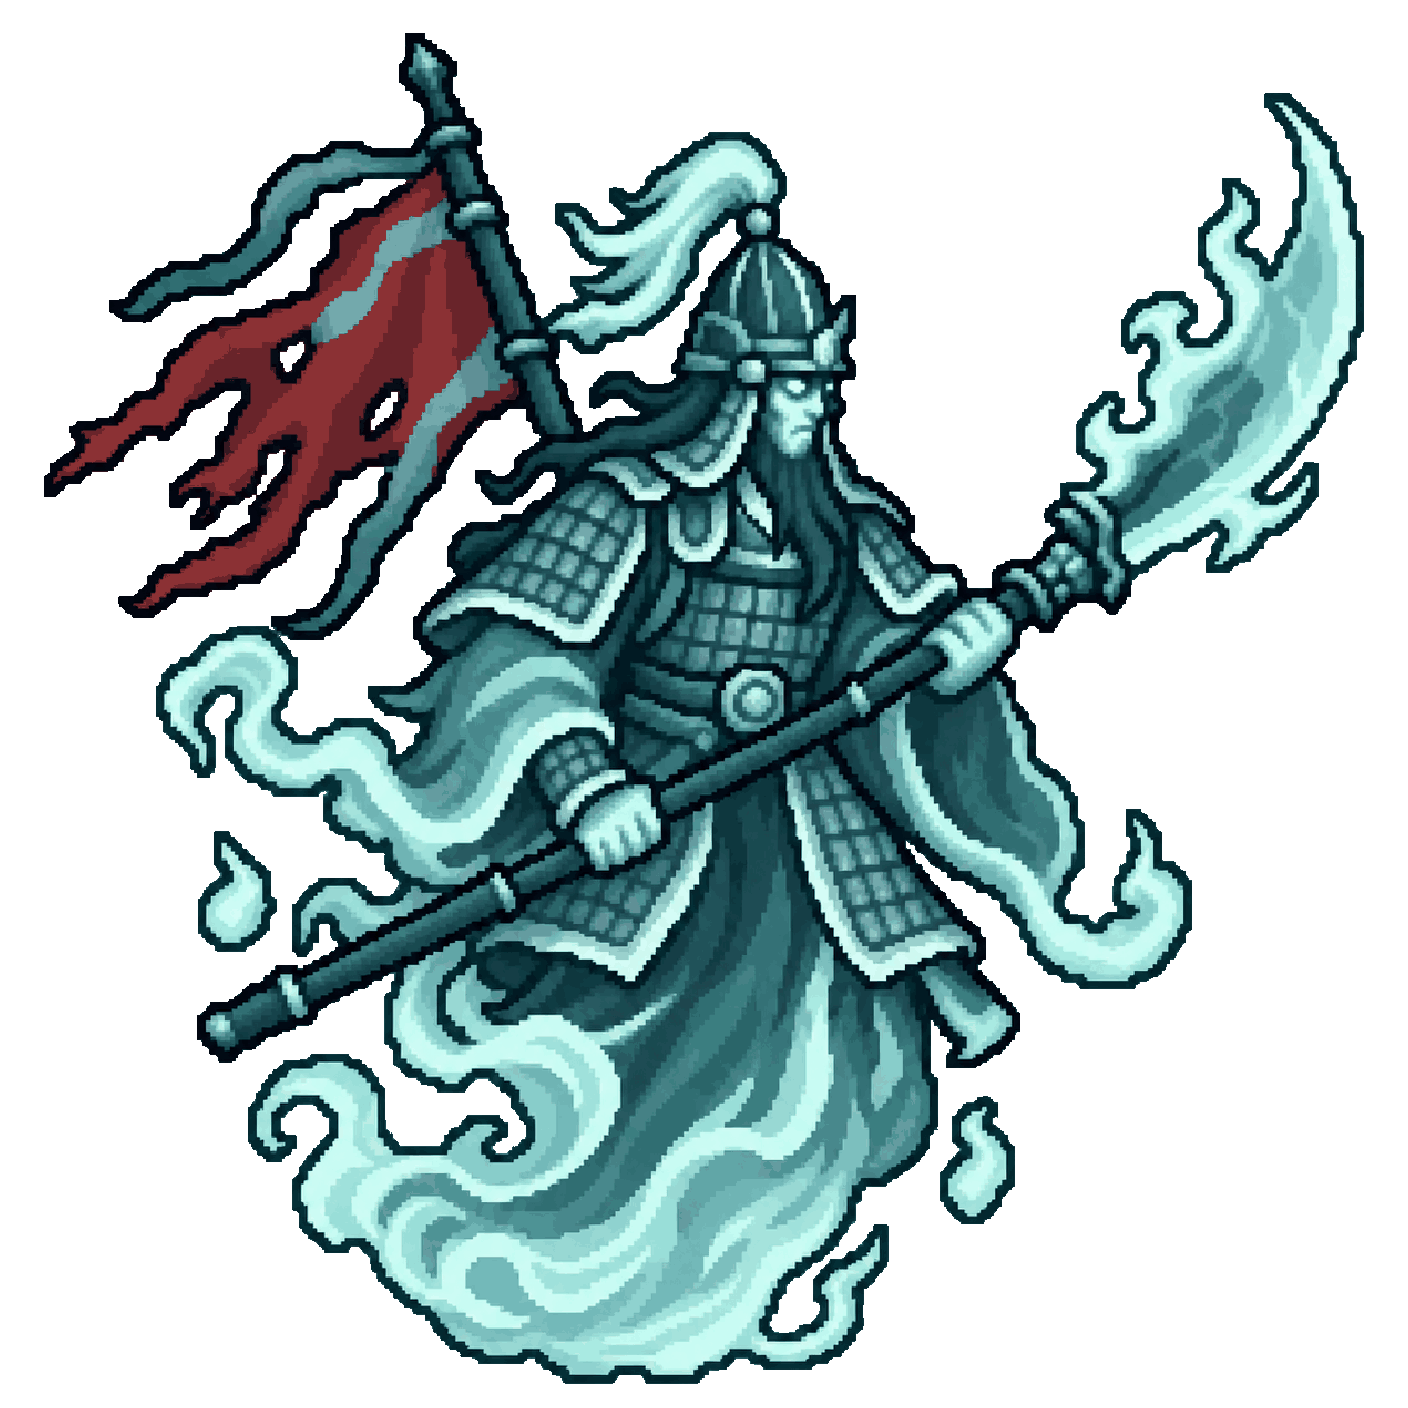
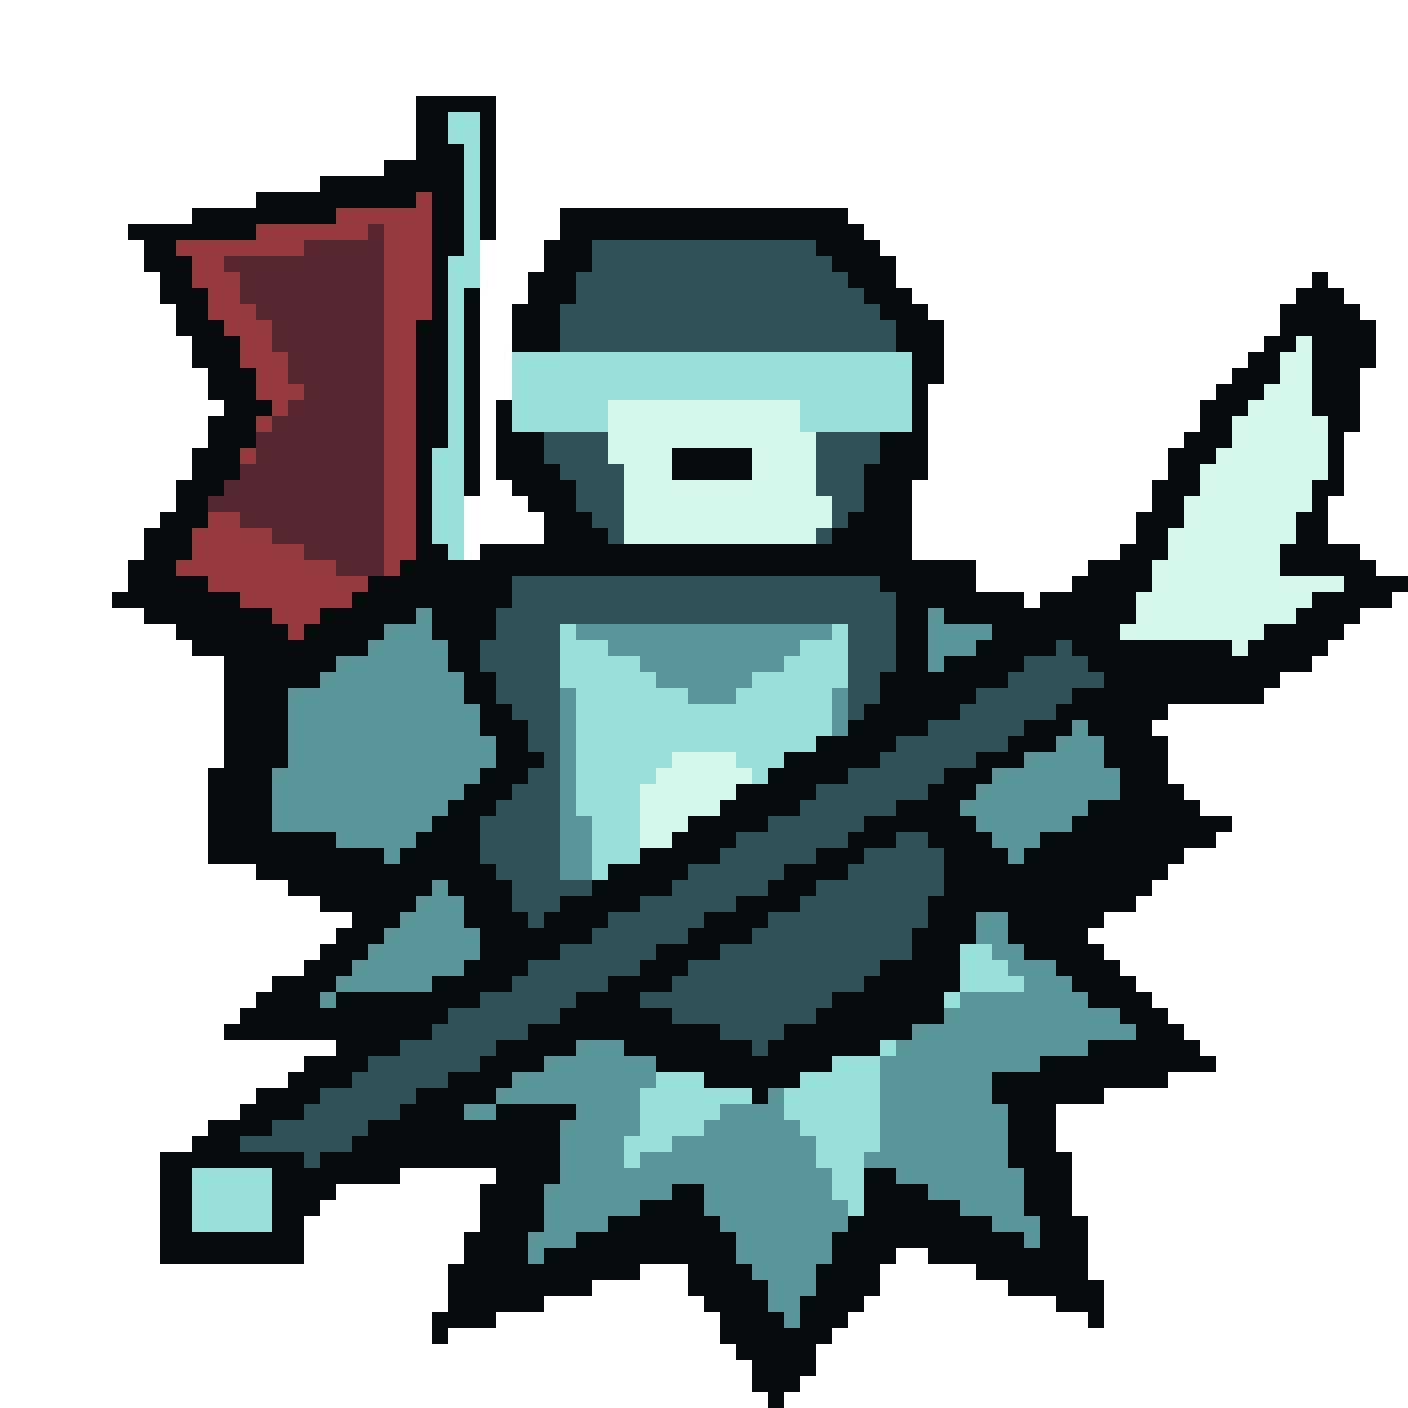
feat(art): rebuild night two assets on gameplay grids

diff --git a/asset/monsters/build_night2_grid_assets.py b/asset/monsters/build_night2_grid_assets.py
@@ -1,0 +1,310 @@
+from __future__ import annotations
+
+from collections import Counter
+from pathlib import Path
+
+from PIL import Image, ImageDraw, ImageFont
+
+
+ROOT = Path(__file__).resolve().parents[2]
+MONSTERS = ROOT / "asset" / "monsters"
+EFFECTS = ROOT / "asset" / "effect"
+
+INK = (8, 11, 13, 255)
+ASH_DARK = (34, 37, 40, 255)
+ASH = (69, 72, 73, 255)
+ASH_HI = (119, 119, 113, 255)
+EMBER = (224, 74, 30, 255)
+EMBER_HI = (255, 165, 55, 255)
+HOUND_DARK = (30, 25, 24, 255)
+HOUND = (62, 49, 43, 255)
+HOUND_HI = (96, 73, 57, 255)
+FANG = (218, 205, 169, 255)
+RED_DARK = (91, 27, 23, 255)
+RED = (162, 52, 39, 255)
+RED_HI = (211, 79, 51, 255)
+BARREL_DARK = (72, 42, 20, 255)
+BARREL = (123, 75, 33, 255)
+BARREL_HI = (169, 108, 48, 255)
+IRON = (42, 46, 49, 255)
+IRON_HI = (83, 85, 82, 255)
+RUST_DARK = (91, 46, 29, 255)
+RUST = (151, 77, 39, 255)
+RUST_HI = (201, 119, 60, 255)
+BLUE_DARK = (22, 37, 52, 255)
+BLUE = (43, 67, 83, 255)
+GHOST_DARK = (15, 53, 60, 220)
+GHOST = (55, 126, 131, 210)
+GHOST_HI = (137, 218, 211, 220)
+GHOST_PALE = (209, 247, 232, 235)
+FLAG_DARK = (73, 22, 31, 235)
+FLAG = (142, 42, 49, 235)
+
+
+def blank(size: int) -> tuple[Image.Image, ImageDraw.ImageDraw]:
+    image = Image.new("RGBA", (size, size))
+    return image, ImageDraw.Draw(image)
+
+
+def ash_wraith() -> Image.Image:
+    image, draw = blank(32)
+    # Four broad ash steps form the disappearing lower body.
+    draw.polygon(((9, 17), (23, 17), (25, 21), (22, 23), (25, 25), (21, 26),
+                  (22, 29), (18, 28), (16, 31), (13, 28), (8, 29), (11, 25),
+                  (6, 24), (9, 21)), fill=INK)
+    draw.polygon(((11, 18), (21, 18), (23, 21), (19, 23), (23, 25), (18, 25),
+                  (20, 28), (16, 27), (15, 29), (13, 27), (10, 27), (12, 24),
+                  (9, 23), (11, 21)), fill=ASH)
+    draw.polygon(((13, 20), (20, 20), (18, 22), (21, 24), (16, 24), (18, 27),
+                  (14, 25), (13, 27), (12, 24)), fill=ASH_HI)
+    # Big torn sleeves, not fingers or cloth folds.
+    draw.polygon(((10, 13), (6, 15), (4, 20), (6, 23), (10, 20), (12, 17)), fill=INK)
+    draw.polygon(((9, 15), (7, 16), (6, 20), (7, 21), (10, 19), (11, 17)), fill=ASH)
+    draw.polygon(((22, 13), (26, 15), (29, 19), (27, 22), (23, 20), (20, 17)), fill=INK)
+    draw.polygon(((23, 15), (25, 16), (27, 19), (26, 20), (23, 18), (21, 17)), fill=ASH)
+    # Hooded head and two explicit 2x2 ember eyes.
+    draw.ellipse((8, 2, 24, 18), fill=INK)
+    draw.polygon(((11, 5), (20, 4), (23, 8), (22, 15), (18, 17), (12, 15), (9, 10)), fill=ASH_DARK)
+    draw.polygon(((12, 6), (20, 6), (21, 9), (20, 13), (12, 13), (10, 9)), fill=ASH)
+    draw.rectangle((12, 9, 13, 10), fill=EMBER)
+    draw.rectangle((18, 9, 19, 10), fill=EMBER)
+    draw.point((13, 9), fill=EMBER_HI)
+    draw.point((19, 9), fill=EMBER_HI)
+    draw.rectangle((14, 13, 18, 14), fill=ASH_DARK)
+    # Detached ash clumps remain deliberately 2x2 or larger.
+    draw.rectangle((4, 25, 5, 26), fill=ASH_HI)
+    draw.rectangle((25, 27, 27, 29), fill=ASH)
+    draw.rectangle((6, 29, 8, 30), fill=ASH_DARK)
+    return image
+
+
+def cursed_hound() -> Image.Image:
+    image, draw = blank(32)
+    # Raised tail and long quadruped torso establish the silhouette first.
+    draw.polygon(((8, 12), (5, 10), (4, 6), (2, 5), (1, 9), (3, 14), (7, 17)), fill=INK)
+    draw.polygon(((7, 13), (5, 11), (5, 8), (3, 7), (3, 10), (5, 14)), fill=HOUND_HI)
+    draw.ellipse((5, 9, 23, 22), fill=INK)
+    draw.polygon(((7, 11), (18, 10), (23, 14), (21, 19), (9, 20), (6, 17)), fill=HOUND)
+    draw.polygon(((9, 12), (18, 12), (20, 14), (16, 16), (8, 16)), fill=HOUND_HI)
+    # Forward canine head, pointed ears, eye and fang.
+    draw.polygon(((19, 11), (21, 6), (23, 10), (27, 9), (30, 13), (31, 17),
+                  (28, 20), (22, 19), (19, 16)), fill=INK)
+    draw.polygon(((21, 12), (22, 9), (24, 12), (27, 11), (29, 14), (29, 17),
+                  (27, 18), (22, 17)), fill=HOUND)
+    draw.rectangle((25, 13, 26, 14), fill=EMBER_HI)
+    draw.rectangle((28, 17, 30, 18), fill=HOUND_DARK)
+    draw.rectangle((27, 18, 28, 20), fill=FANG)
+    # Four separated weight-bearing legs.
+    legs = (((7, 18), (11, 18), (10, 27), (6, 27)),
+            ((13, 18), (16, 18), (17, 27), (13, 27)),
+            ((20, 17), (23, 17), (24, 27), (20, 27)),
+            ((25, 18), (28, 18), (30, 27), (25, 27)))
+    for index, points in enumerate(legs):
+        draw.polygon(points, fill=INK)
+        draw.rectangle((points[0][0] + 1, 20, points[1][0] - 1, 25), fill=HOUND if index % 2 else HOUND_DARK)
+        draw.rectangle((points[3][0], 27, points[2][0] + 1, 28), fill=INK)
+        draw.point((points[3][0] + 1, 27), fill=FANG)
+    return image
+
+
+def powder_dokkaebi() -> Image.Image:
+    image, draw = blank(32)
+    # Barrel occupies the whole back third and reads before the face.
+    draw.ellipse((2, 3, 20, 20), fill=INK)
+    draw.ellipse((4, 4, 18, 18), fill=BARREL)
+    draw.rectangle((5, 7, 18, 9), fill=BARREL_HI)
+    draw.rectangle((4, 12, 18, 14), fill=BARREL_DARK)
+    draw.line((7, 4, 5, 18), fill=IRON, width=2)
+    draw.line((16, 4, 18, 17), fill=IRON, width=2)
+    draw.rectangle((9, 2, 12, 4), fill=BARREL_DARK)
+    draw.line((11, 2, 15, 0), fill=RUST_HI, width=1)
+    draw.point((16, 0), fill=EMBER_HI)
+    # Squat red body.
+    draw.polygon(((12, 15), (24, 14), (28, 19), (26, 25), (23, 24), (25, 29),
+                  (19, 30), (17, 25), (14, 30), (8, 29), (11, 23), (8, 20)), fill=INK)
+    draw.polygon(((13, 16), (23, 16), (26, 19), (24, 23), (21, 22), (23, 28),
+                  (20, 28), (18, 23), (16, 28), (11, 28), (13, 22), (10, 20)), fill=RED)
+    draw.rectangle((14, 19, 22, 24), fill=RED_HI)
+    # Horned goblin head with two white eyes and tusks.
+    draw.polygon(((13, 7), (15, 3), (17, 7), (23, 6), (26, 3), (27, 8),
+                  (30, 10), (29, 18), (25, 21), (16, 19), (12, 15)), fill=INK)
+    draw.polygon(((15, 8), (16, 5), (18, 8), (23, 8), (25, 5), (25, 9),
+                  (28, 11), (27, 16), (24, 18), (17, 17), (14, 14)), fill=RED)
+    draw.rectangle((17, 11, 19, 12), fill=FANG)
+    draw.rectangle((24, 11, 26, 12), fill=FANG)
+    draw.point((19, 12), fill=INK)
+    draw.point((24, 12), fill=INK)
+    draw.rectangle((20, 15, 23, 16), fill=RED_DARK)
+    draw.rectangle((16, 16, 17, 19), fill=FANG)
+    draw.rectangle((25, 16, 26, 19), fill=FANG)
+    return image
+
+
+def rusted_armor() -> Image.Image:
+    image, draw = blank(52)
+    # Broad dojeonggap silhouette: helmet, pauldrons, plated skirt, boots.
+    draw.polygon(((19, 4), (32, 4), (36, 9), (35, 18), (31, 20), (20, 19),
+                  (16, 15), (17, 8)), fill=INK)
+    draw.polygon(((20, 5), (30, 5), (34, 9), (33, 16), (29, 18), (21, 17),
+                  (18, 14), (19, 8)), fill=IRON)
+    draw.rectangle((18, 10, 34, 13), fill=RUST)
+    draw.rectangle((21, 13, 31, 18), fill=INK)
+    draw.rectangle((24, 14, 27, 17), fill=EMBER)
+    draw.rectangle((25, 14, 26, 15), fill=EMBER_HI)
+    # Torso and shoulder plates.
+    draw.polygon(((15, 17), (36, 17), (41, 24), (38, 38), (31, 40), (19, 39),
+                  (12, 34), (11, 23)), fill=INK)
+    draw.polygon(((17, 19), (34, 19), (38, 24), (35, 35), (29, 38), (20, 36),
+                  (15, 32), (14, 24)), fill=IRON)
+    draw.rectangle((20, 21, 31, 34), fill=BLUE_DARK)
+    draw.rectangle((22, 22, 29, 32), fill=IRON_HI)
+    draw.line((18, 19, 20, 35), fill=RUST, width=2)
+    draw.line((33, 19, 31, 36), fill=RUST, width=2)
+    draw.ellipse((5, 16, 19, 29), fill=INK)
+    draw.ellipse((7, 18, 17, 27), fill=IRON)
+    draw.line((8, 21, 16, 23), fill=RUST, width=2)
+    draw.ellipse((33, 16, 47, 29), fill=INK)
+    draw.ellipse((35, 18, 45, 27), fill=IRON)
+    draw.line((36, 21, 44, 23), fill=RUST, width=2)
+    # Blocky arms and gauntlets.
+    draw.polygon(((7, 25), (15, 24), (17, 38), (12, 43), (6, 39), (4, 31)), fill=INK)
+    draw.polygon(((8, 27), (13, 26), (15, 37), (11, 40), (7, 38), (6, 31)), fill=IRON)
+    draw.rectangle((7, 36, 14, 41), fill=RUST_DARK)
+    draw.polygon(((38, 24), (45, 26), (48, 34), (46, 41), (40, 43), (36, 37)), fill=INK)
+    draw.polygon(((39, 27), (44, 28), (46, 34), (44, 39), (41, 40), (38, 36)), fill=IRON)
+    draw.rectangle((39, 36, 46, 41), fill=RUST_DARK)
+    # Studded coat and split skirt.
+    draw.polygon(((14, 33), (38, 33), (41, 45), (30, 45), (26, 42), (22, 46), (10, 44)), fill=INK)
+    draw.polygon(((16, 35), (36, 35), (38, 43), (30, 43), (26, 40), (21, 44), (13, 42)), fill=IRON)
+    for y in (22, 27, 36, 40):
+        for x in range(17 if y < 33 else 16, 36, 5):
+            draw.rectangle((x, y, x + 1, y + 1), fill=RUST_HI)
+    draw.polygon(((14, 42), (23, 42), (22, 49), (9, 49), (9, 46)), fill=INK)
+    draw.polygon(((29, 42), (38, 42), (44, 47), (43, 50), (29, 49)), fill=INK)
+    draw.rectangle((11, 46, 21, 48), fill=IRON_HI)
+    draw.rectangle((31, 46, 41, 48), fill=IRON_HI)
+    return image
+
+
+def general_wraith() -> Image.Image:
+    image, draw = blank(88)
+    # Banner and pole establish command rank behind the body.
+    draw.line((28, 6, 24, 71), fill=INK, width=5)
+    draw.line((28, 7, 25, 70), fill=GHOST_HI, width=2)
+    draw.polygon(((28, 9), (8, 14), (14, 25), (7, 37), (25, 47)), fill=INK)
+    draw.polygon(((26, 12), (11, 15), (17, 25), (11, 35), (24, 42)), fill=FLAG)
+    draw.polygon(((23, 14), (14, 16), (19, 24), (13, 31), (23, 36)), fill=FLAG_DARK)
+    # Large ghost-fire mantle and disappearing base.
+    draw.polygon(((27, 34), (20, 41), (14, 53), (22, 57), (14, 64), (25, 65),
+                  (18, 74), (31, 72), (27, 83), (42, 78), (48, 87), (56, 77),
+                  (68, 82), (65, 69), (75, 66), (67, 58), (76, 51), (65, 45),
+                  (60, 35)), fill=INK)
+    draw.polygon(((29, 37), (23, 43), (19, 51), (27, 55), (20, 62), (31, 61),
+                  (24, 70), (36, 68), (33, 78), (43, 73), (49, 82), (54, 72),
+                  (64, 77), (61, 67), (70, 64), (62, 58), (70, 51), (61, 47),
+                  (57, 38)), fill=GHOST)
+    draw.polygon(((35, 43), (28, 52), (36, 57), (31, 65), (42, 63), (39, 72),
+                  (48, 67), (53, 75), (55, 63), (63, 61), (56, 54), (61, 47),
+                  (52, 43)), fill=GHOST_HI)
+    # Helmeted face and translucent armor blocks.
+    draw.polygon(((35, 13), (52, 13), (58, 20), (56, 33), (51, 38), (37, 36),
+                  (31, 29), (32, 19)), fill=INK)
+    draw.polygon(((37, 15), (50, 15), (55, 20), (53, 31), (49, 35), (38, 33),
+                  (34, 28), (35, 19)), fill=GHOST_DARK)
+    draw.rectangle((32, 22, 56, 26), fill=GHOST_HI)
+    draw.polygon(((38, 25), (49, 25), (51, 32), (47, 36), (39, 33)), fill=GHOST_PALE)
+    draw.rectangle((42, 28, 46, 29), fill=INK)
+    draw.polygon(((30, 34), (56, 34), (64, 47), (58, 63), (47, 68), (33, 63),
+                  (24, 49)), fill=INK)
+    draw.polygon(((32, 36), (54, 36), (61, 47), (56, 59), (47, 65), (35, 60),
+                  (27, 48)), fill=GHOST_DARK)
+    draw.rectangle((35, 39, 52, 54), fill=GHOST)
+    draw.polygon(((35, 39), (44, 44), (52, 39), (50, 54), (37, 54)), fill=GHOST_HI)
+    draw.ellipse((40, 47, 47, 54), fill=GHOST_PALE)
+    draw.polygon(((25, 35), (14, 42), (13, 53), (25, 56), (33, 47)), fill=INK)
+    draw.polygon(((26, 38), (18, 43), (17, 51), (24, 53), (30, 47)), fill=GHOST)
+    draw.polygon(((57, 35), (69, 39), (73, 50), (63, 57), (54, 48)), fill=INK)
+    draw.polygon(((58, 38), (66, 41), (69, 49), (63, 53), (57, 47)), fill=GHOST)
+    # Guan dao crosses the whole silhouette and ends in a huge readable blade.
+    draw.line((12, 75, 72, 37), fill=INK, width=7)
+    draw.line((13, 74, 72, 38), fill=GHOST_DARK, width=3)
+    draw.polygon(((67, 40), (73, 28), (82, 17), (85, 20), (82, 33), (87, 36),
+                  (78, 43), (72, 44)), fill=INK)
+    draw.polygon(((70, 39), (75, 29), (81, 21), (82, 29), (79, 35), (83, 36),
+                  (77, 40)), fill=GHOST_PALE)
+    draw.rectangle((10, 72, 18, 78), fill=INK)
+    draw.rectangle((12, 73, 16, 76), fill=GHOST_HI)
+    return image
+
+
+SPECS = {
+    "ash_wraith": (32, 22, 30, ash_wraith),
+    "cursed_hound": (32, 22, 30, cursed_hound),
+    "powder_dokkaebi": (32, 22, 32, powder_dokkaebi),
+    "rusted_armor": (52, 16, 43, rusted_armor),
+    "general_wraith": (88, 16, 84, general_wraith),
+}
+
+
+def nearest_roundtrip_difference(image: Image.Image, logical_size: tuple[int, int]) -> tuple[int, float]:
+    logical = image.resize(logical_size, Image.Resampling.NEAREST)
+    restored = logical.resize(image.size, Image.Resampling.NEAREST)
+    different = sum(left != right for left, right in zip(image.get_flattened_data(), restored.get_flattened_data()))
+    return different, different / float(image.width * image.height) * 100.0
+
+
+def peak_effect_frame(path: Path, frame_count: int) -> Image.Image:
+    sheet = Image.open(path).convert("RGBA")
+    frame_width = sheet.width // frame_count
+    frames = [sheet.crop((index * frame_width, 0, (index + 1) * frame_width, sheet.height)) for index in range(frame_count)]
+    return max(frames, key=lambda frame: sum(bool(alpha) for alpha in frame.getchannel("A").get_flattened_data()))
+
+
+def make_comparison() -> Path:
+    entries: list[tuple[str, Image.Image, int]] = [
+        ("FOREST GOBLIN", Image.open(MONSTERS / "forest_goblin" / "idle.png").convert("RGBA"), 30),
+        ("TAOIST", Image.open(ROOT / "asset" / "characters" / "taoist" / "idle.png").convert("RGBA"), 40),
+    ]
+    entries.extend(
+        (name.replace("_", " ").upper(), Image.open(MONSTERS / name / "idle.png").convert("RGBA"), display)
+        for name, (_, _, display, _) in SPECS.items()
+    )
+    entries.extend((
+        ("CHEOLBYEOK", peak_effect_frame(EFFECTS / "skill_cheolbyeok.png", 6), 96),
+        ("CHAMGYEOK", peak_effect_frame(EFFECTS / "skill_chamgyeok.png", 8), 150),
+    ))
+    cell_width = 174
+    image = Image.new("RGB", (cell_width * len(entries), 190), (11, 15, 17))
+    draw = ImageDraw.Draw(image)
+    font = ImageFont.load_default()
+    for index, (label, source, display_size) in enumerate(entries):
+        display = source.resize((display_size, display_size), Image.Resampling.NEAREST)
+        x = index * cell_width + (cell_width - display.width) // 2
+        y = 4 + (156 - display.height) // 2
+        image.paste(display, (x, y), display)
+        draw.text((index * cell_width + 6, 166), label, fill=(190, 197, 196), font=font)
+        if index:
+            draw.line((index * cell_width, 4, index * cell_width, 184), fill=(37, 43, 45))
+    path = MONSTERS / "night2-grid-comparison.png"
+    image.quantize(colors=64, method=Image.Quantize.MEDIANCUT, dither=Image.Dither.NONE).convert("RGB").save(path, optimize=True)
+    return path
+
+
+def main() -> None:
+    for name, (logical_size, scale, _, builder) in SPECS.items():
+        logical = builder()
+        if logical.size != (logical_size, logical_size):
+            raise ValueError(f"{name}: wrong logical size {logical.size}")
+        output = logical.resize((logical_size * scale, logical_size * scale), Image.Resampling.NEAREST)
+        colors = Counter(output.get_flattened_data())
+        if len(colors) > 64:
+            raise ValueError(f"{name}: {len(colors)} colors")
+        output_path = MONSTERS / name / "idle.png"
+        output.save(output_path, optimize=True)
+        different, percent = nearest_roundtrip_difference(output, logical.size)
+        print(f"{name}: {logical_size}x{logical_size} x{scale} -> {output.width}x{output.height}; {len(colors)} RGBA colors; roundtrip {different} px ({percent:.6f}%)")
+    print(f"comparison: {make_comparison().as_posix()}")
+
+
+if __name__ == "__main__":
+    main()

diff --git a/asset/effect/build_weapon_skill_effects.py b/asset/effect/build_weapon_skill_effects.py
@@ -10,6 +10,7 @@ from PIL import Image, ImageDraw, ImageFont
 ROOT = Path(__file__).resolve().parents[2]
 OUT = ROOT / "asset" / "effect"
 FRAME = 128
+LOGICAL_EFFECT_FRAME = 64
 
 INK = (14, 12, 15, 255)
 BRASS_DARK = (91, 67, 36, 255)
@@ -38,6 +39,13 @@ def canvas() -> tuple[Image.Image, ImageDraw.ImageDraw]:
 def save_sheet(name: str, frames: list[Image.Image]) -> Image.Image:
     sheet = Image.new("RGBA", (FRAME * len(frames), FRAME))
     for index, frame in enumerate(frames):
+        if name.startswith("skill_"):
+            # Warrior actives are authored on the 64px gameplay grid, then
+            # enlarged exactly x2. This intentionally discards sub-grid detail.
+            logical = frame.resize(
+                (LOGICAL_EFFECT_FRAME, LOGICAL_EFFECT_FRAME), Image.Resampling.NEAREST
+            )
+            frame = logical.resize((FRAME, FRAME), Image.Resampling.NEAREST)
         sheet.alpha_composite(frame, (index * FRAME, 0))
     sheet.save(OUT / f"{name}.png", optimize=True)
     return sheet
@@ -353,6 +361,18 @@ def validate(sheets: dict[str, Image.Image]) -> None:
             raise ValueError(f"{name} uses {len(colors)} RGBA colors")
         if any(frame.getchannel("A").getbbox() is None for frame in split_frames(sheet)):
             raise ValueError(f"{name} has an empty animation frame")
+        if name.startswith("skill_"):
+            logical = sheet.resize(
+                (sheet.width // 2, sheet.height // 2), Image.Resampling.NEAREST
+            )
+            restored = logical.resize(sheet.size, Image.Resampling.NEAREST)
+            different = sum(
+                left != right
+                for left, right in zip(sheet.get_flattened_data(), restored.get_flattened_data())
+            )
+            percent = different / float(sheet.width * sheet.height) * 100.0
+            if percent >= 2.0:
+                raise ValueError(f"{name} logical-grid roundtrip differs by {percent:.4f}%")
 
     sword_names = ("swing_sword.png", "swing_twin_sword.png", "swing_sharp_sword.png", "swing_ghost_sword.png", "swing_flame_sword.png")
     sword_peaks = [peak_frame(Image.open(OUT / name).convert("RGBA")) for name in sword_names]
@@ -385,7 +405,13 @@ def main() -> None:
     ]
     staff_peaks = [peak_frame(sheets["swing_seokjang"]), peak_frame(sheets["swing_ghost_staff"])]
     for name, sheet in sheets.items():
-        print(f"{name}: {sheet.width}x{sheet.height}, {len(set(sheet.get_flattened_data()))} RGBA colors, binary alpha")
+        detail = ""
+        if name.startswith("skill_"):
+            logical = sheet.resize((sheet.width // 2, sheet.height // 2), Image.Resampling.NEAREST)
+            restored = logical.resize(sheet.size, Image.Resampling.NEAREST)
+            different = sum(left != right for left, right in zip(sheet.get_flattened_data(), restored.get_flattened_data()))
+            detail = f", 64x64 x2 roundtrip {different} px ({different / float(sheet.width * sheet.height) * 100.0:.6f}%)"
+        print(f"{name}: {sheet.width}x{sheet.height}, {len(set(sheet.get_flattened_data()))} RGBA colors, binary alpha{detail}")
     print("staff/sword peak silhouette max IoU: %.4f" % max(silhouette_iou(staff, sword) for staff in staff_peaks for sword in sword_peaks))
     print("chamgyeok/weapon peak silhouette max IoU: %.4f" % max(silhouette_iou(peak_frame(sheets["skill_chamgyeok"]), weapon) for weapon in sword_peaks + staff_peaks))
     print(f"comparison: {comparison_path.as_posix()}")

diff --git a/asset/effect/weapon-effect-notes.md b/asset/effect/weapon-effect-notes.md
@@ -1,8 +1,10 @@
 # Dedicated weapon and warrior effects
 
-`build_weapon_skill_effects.py` authors the four sheets directly at their
-128px frame resolution. This keeps every edge pixel-aligned and reproducible;
-the shipped sheets have binary alpha, no antialiasing, and 6-7 RGBA colours.
+`build_weapon_skill_effects.py` keeps the staff sheets at 128px per frame and
+normalizes both warrior actives onto a 64px logical grid before exact x2
+nearest-neighbour enlargement. This keeps every edge pixel-aligned and
+reproducible; the shipped sheets have binary alpha, no antialiasing, and 6-7
+RGBA colours.
 
 ## Deliverables
 
@@ -26,7 +28,7 @@ second row shows all six cheolbyeok frames at 96px.
 
 - Maximum peak-silhouette IoU between either staff and any sword: `0.2676`.
 - Maximum peak-silhouette IoU between chamgyeok and any of the seven weapon
-  swings: `0.4141`.
+  swings: `0.4138`.
 - The staff pair shares the same blunt-impact skeleton but separates by
   material: dust and gravel versus floating souls and pale violet ring echoes.
 - At gameplay size, the staff wedges remain straight, broad masses; all five
@@ -43,5 +45,6 @@ python asset/effect/build_weapon_skill_effects.py
 ```
 
 The builder rejects wrong dimensions, partial alpha, empty frames, more than
-64 colours, a staff/sword peak IoU of 0.45 or greater, or a chamgyeok/weapon
-peak IoU of 0.45 or greater.
+64 colours, a warrior-active logical-grid roundtrip difference of 2% or more,
+a staff/sword peak IoU of 0.45 or greater, or a chamgyeok/weapon peak IoU of
+0.45 or greater.
